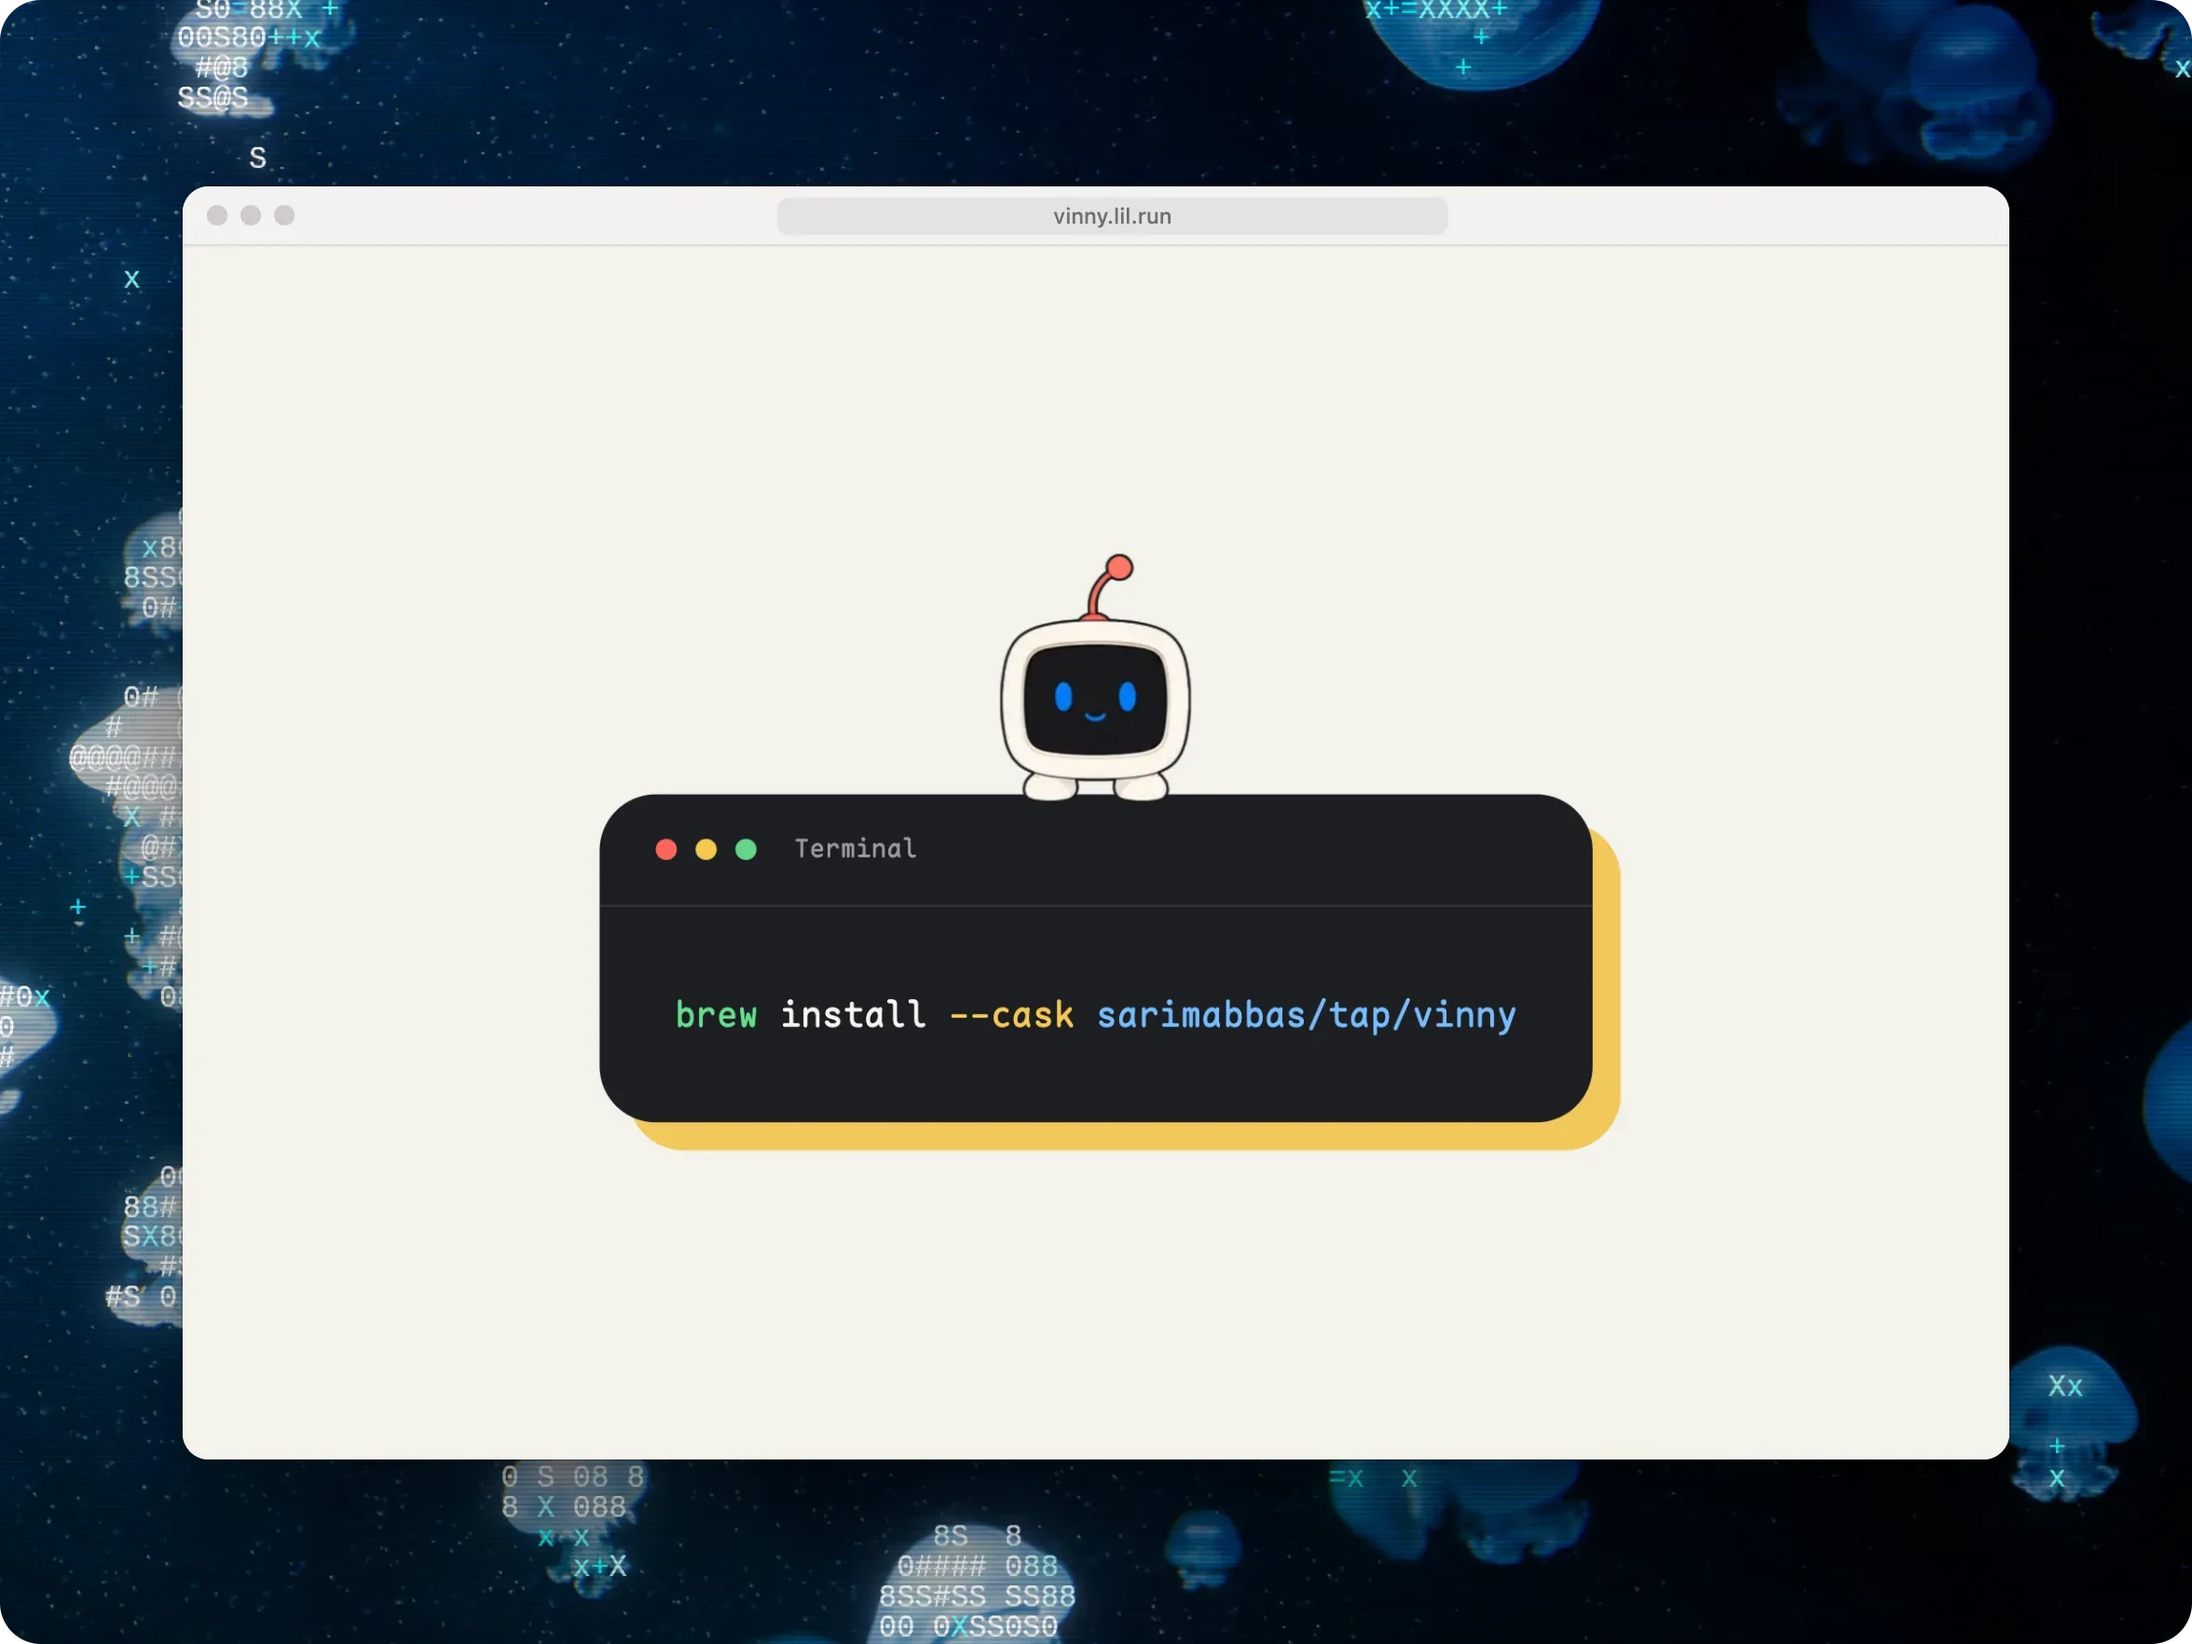
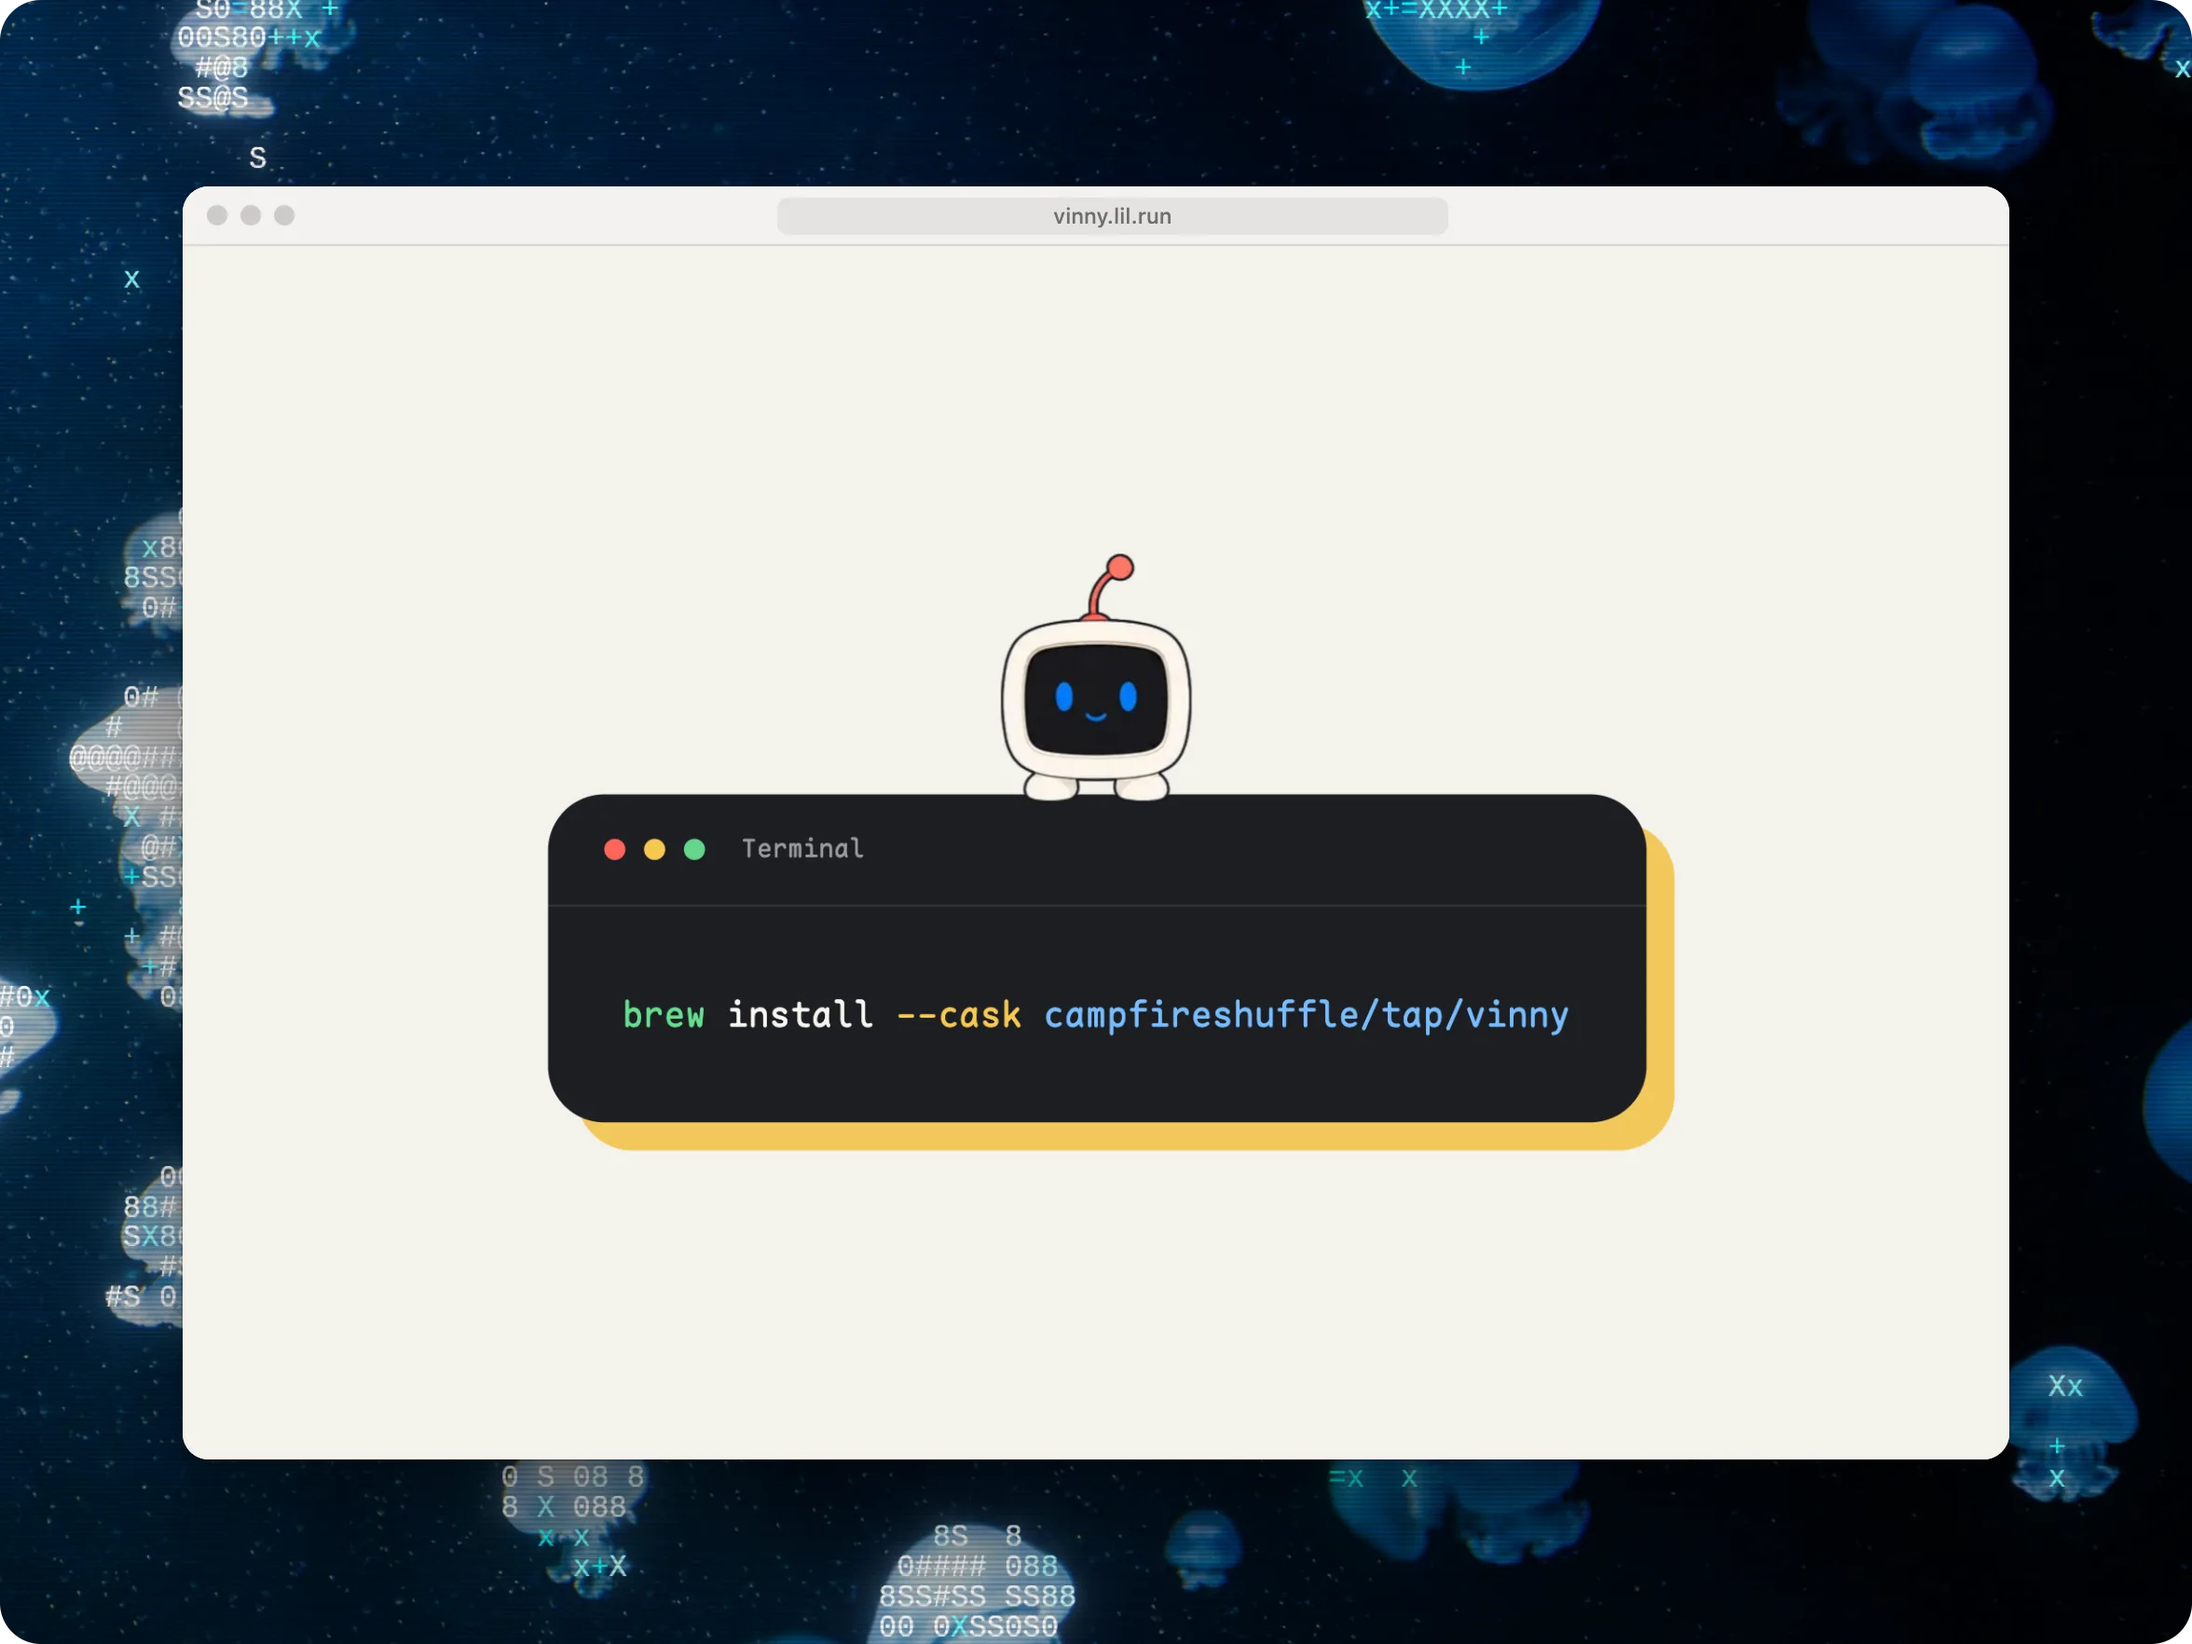
Point Homebrew at campfireshuffle/tap (#30)
The tap moved to campfireshuffle/homebrew-tap. Update the install command on the site and in the README, the README screenshot, and the release workflow that opens tap PRs.

Changed region(s): [[0.2483, 0.4677, 0.7759, 0.7171], [0.5276, 0.4053, 0.5587, 0.4365], [0.4966, 0.343, 0.5276, 0.3741]]

diff --git a/website/index.html b/website/index.html
@@ -38,7 +38,7 @@
 
           <section class="terminal" id="get-connected" aria-label="Vinny Homebrew installation command">
             <div class="terminal-bar"><i></i><i></i><i></i><span>Terminal</span></div>
-            <pre><code><span class="shell-command">brew</span> <span class="shell-action">install</span> <span class="shell-flag">--cask</span> <span class="shell-package">sarimabbas/tap/vinny</span></code></pre>
+            <pre><code><span class="shell-command">brew</span> <span class="shell-action">install</span> <span class="shell-flag">--cask</span> <span class="shell-package">campfireshuffle/tap/vinny</span></code></pre>
           </section>
 
           <nav class="install-links" aria-label="Installation">

diff --git a/README.md b/README.md
@@ -5,7 +5,7 @@
 
 Vinny is a small VNC server for macOS. It runs in the menu bar and lets you choose a display, capture size, frame rate, and whether viewers can control the Mac.
 
-![Vinny the robot on top of the install command: brew install --cask sarimabbas/tap/vinny](assets/preview.webp)
+![Vinny the robot on top of the install command: brew install --cask campfireshuffle/tap/vinny](assets/preview.webp)
 
 ## Install
 
@@ -14,7 +14,7 @@ Requires macOS 12.3 or newer. The published download is for Apple silicon (ARM64
 With Homebrew:
 
 ```bash
-brew install --cask sarimabbas/tap/vinny
+brew install --cask campfireshuffle/tap/vinny
 ```
 
 Or [download v0.2.5 for Apple silicon](https://github.com/sarimabbas/vinny/releases/download/v0.2.5/vinny-0.2.5-macos-arm64.zip), unzip it, and move `Vinny.app` to Applications. [Release notes and checksums](https://github.com/sarimabbas/vinny/releases/latest).

diff --git a/docs/RELEASING.md b/docs/RELEASING.md
@@ -63,7 +63,7 @@ All release credentials are GitHub environment secrets in `release`, restricted 
 - `APPLE_API_ISSUER_ID`
 - `HOMEBREW_TAP_DEPLOY_KEY_B64`
 
-The Homebrew key can write only to `sarimabbas/homebrew-tap`. The release token can write only to the Vinny repository.
+The Homebrew key can write only to `campfireshuffle/homebrew-tap`. The release token can write only to the Vinny repository.
 
 Never commit certificates, private keys, passwords, or deploy keys. Apple provides the App Store Connect `.p8` only once, so keep an encrypted backup. Rotate any credential that may have leaked.
 
